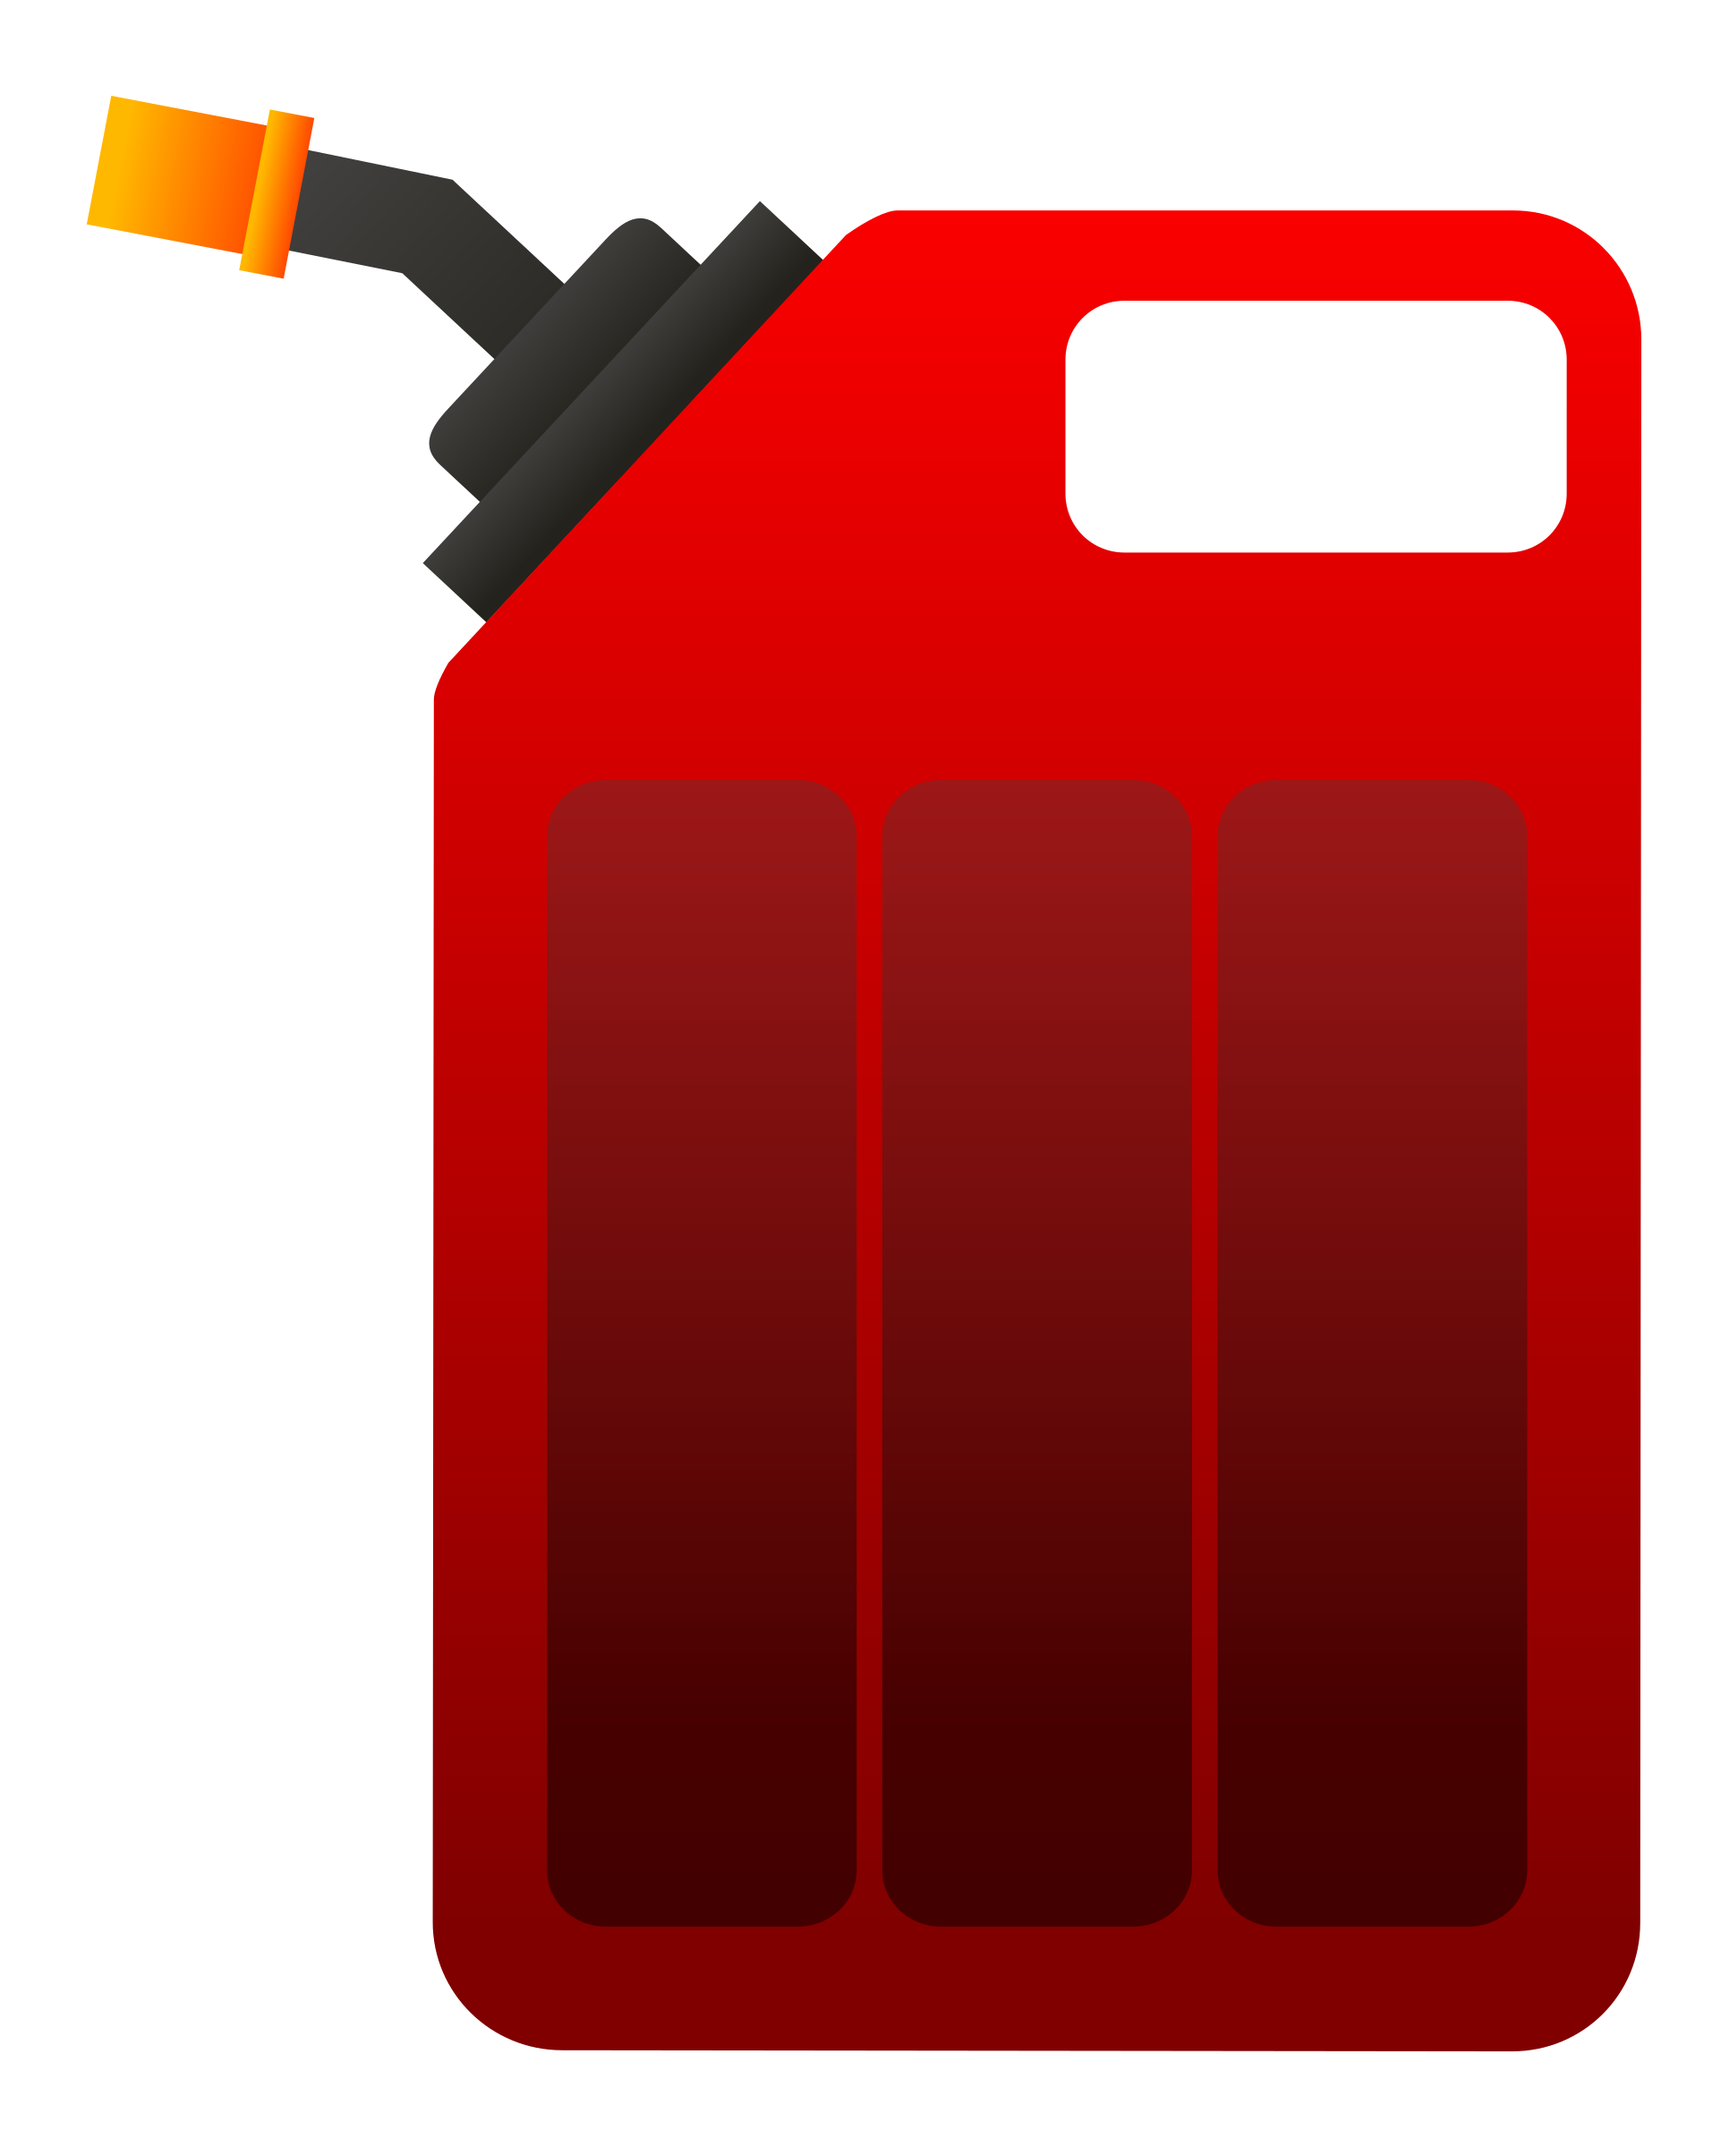
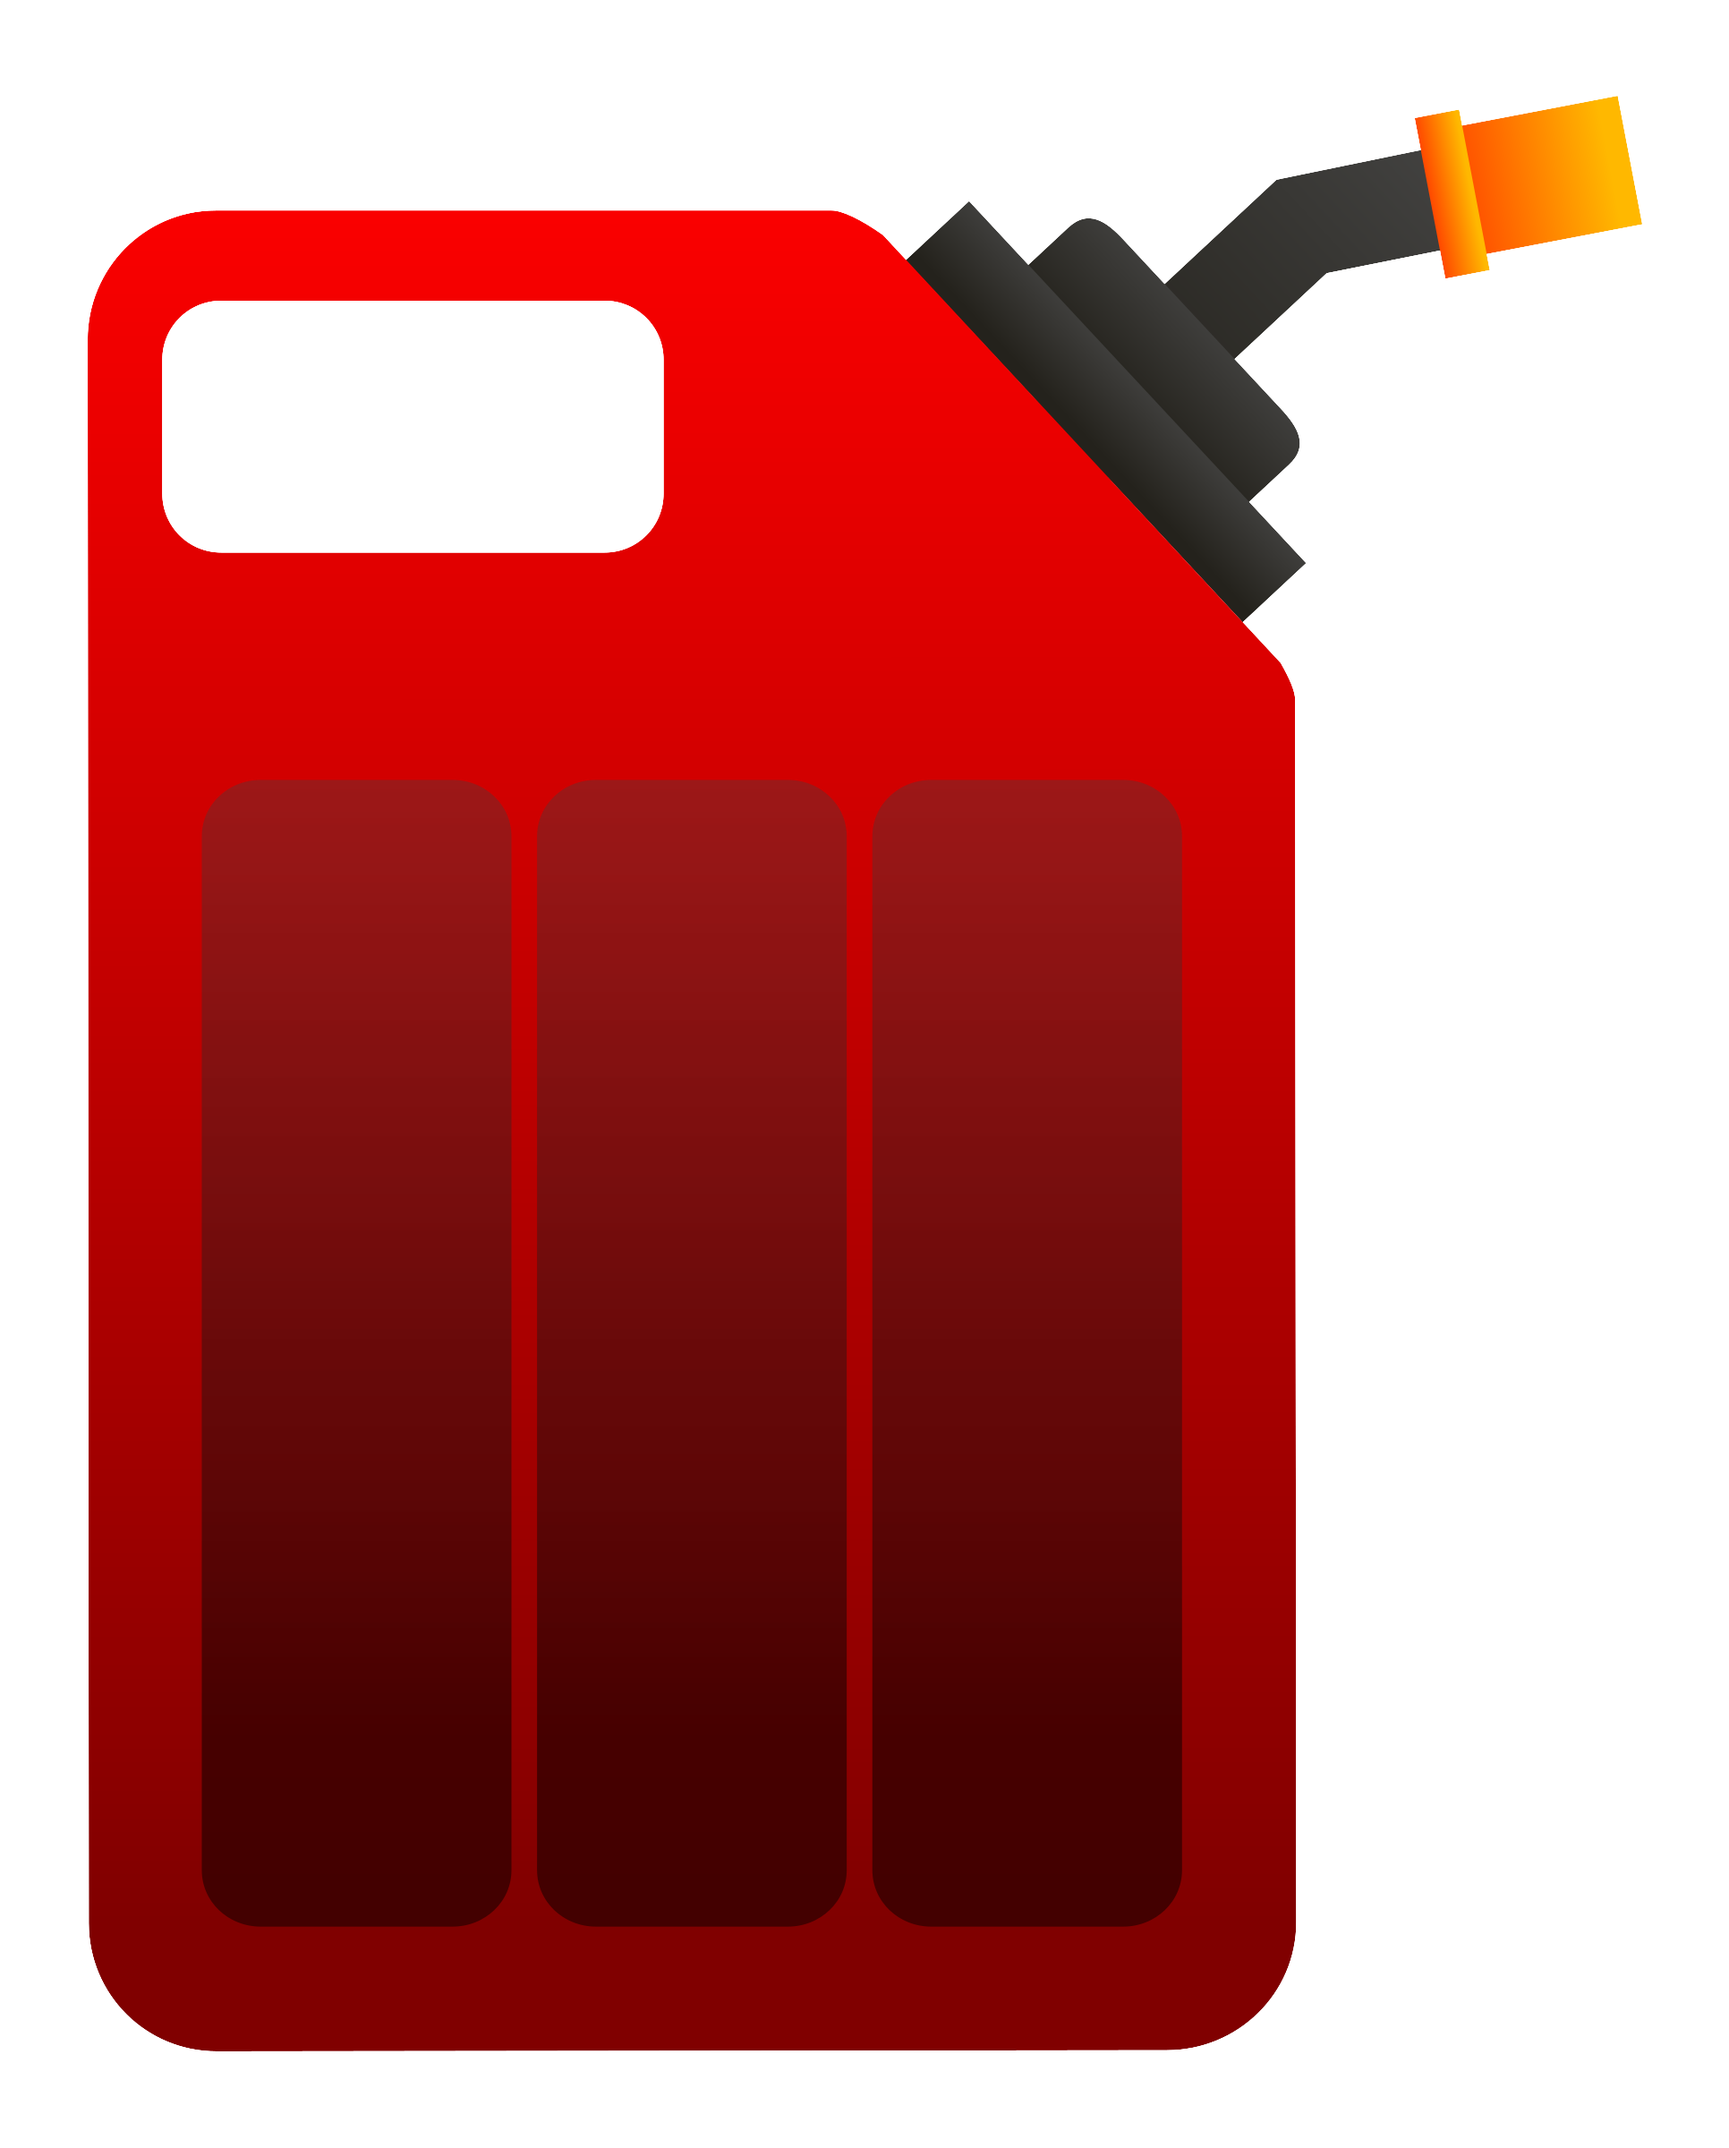
flipped fuel

diff --git a/oblig_3/main.py b/oblig_3/main.py
@@ -32,9 +32,11 @@ class Game:
 
     fuel_group = pygame.sprite.Group()
     fuel_group.add(landing_pad.Landing_pad("images/fuel.png", 50, config.SCREEN_Y/2))
-    fuel_group.add(landing_pad.Landing_pad("images/fuel.png", config.SCREEN_X-150, config.SCREEN_Y/2))
 
-    def print_text(self, message, x=10, y=10):
+    fuel_group.add(landing_pad.Landing_pad("images/fuel_flipped.png", config.SCREEN_X-150, config.SCREEN_Y/2))
+                                    
+
+    def print_text(self, message, x=10, y=10): #chat
 
         TEXT_COLOR = (255, 255, 255)
         font_obj = pygame.font.Font(None, 32)
@@ -62,9 +64,8 @@ class Game:
             spaceship.Spaceship.bullet_group.draw(screen)
 
             spaceship_instance = next(iter(Game.spaceship_group))
-            self.print_text(f"Fuel: {int(spaceship_instance.fuel)}", 10, 10)
 
-            points = next(iter(Game.spaceship_group))
+            self.print_text(f"Fuel: {int(spaceship_instance.fuel)}", 10, 10)
             self.print_text(f"Points: {int(spaceship_instance.points)}", 10, 30)
             
             pygame.display.set_caption('Oblig 3 INF-1400')
